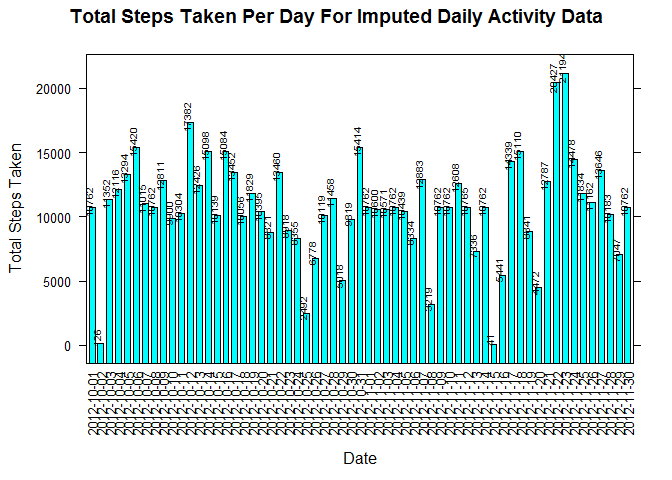
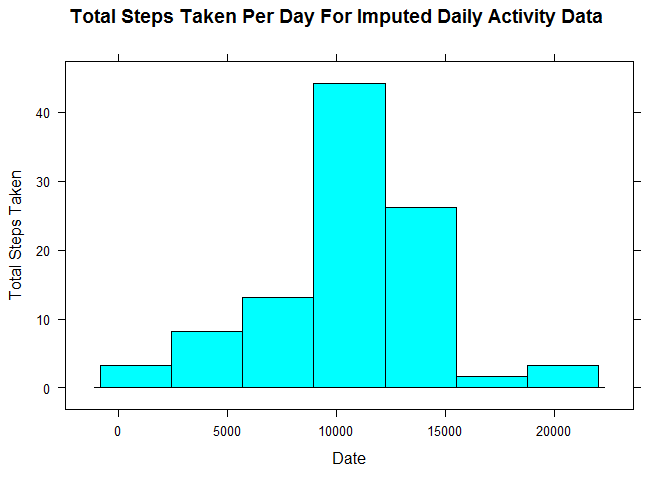
change barchart to histogram

diff --git a/PA1_template.html b/PA1_template.html
@@ -219,12 +219,8 @@ totalDailyActivityData</code></pre>
 <pre class="r"><code>#Lattice bar chart to create a histogram of totals per day
 require(lattice)</code></pre>
 <pre><code>## Loading required package: lattice</code></pre>
-<pre class="r"><code>barchart(totalSteps~date , data = totalDailyActivityData, horiz = FALSE, xlab  = &quot;Date&quot;, ylab = &quot;Total Steps&quot;, main=&quot;Total Steps Per Day&quot;,
-            panel = function(x,y,...){
-                panel.barchart(x, y, ...)
-                panel.text(x, y, label = totalDailyActivityData$totalSteps, pos = 3,cex = 0.6, srt = 90)
-            }, scales=list(x=list(rot=90)))</code></pre>
[1 lines of base64/hex data omitted]
+<pre class="r"><code>histogram(date~totalSteps , data = totalDailyActivityData, horiz = FALSE, xlab  = &quot;Date&quot;, ylab = &quot;Total Steps&quot;, main=&quot;Total Steps Per Day&quot;)</code></pre>
[1 lines of base64/hex data omitted]
 </div>
 </div>
 <div id="what-is-the-average-daily-activity-pattern" class="section level2">
@@ -345,12 +341,8 @@ totalImputedDailyActivityData[,c(&quot;date&quot;,&quot;meanSteps&quot;,&quot;me
 <h3>Histogram of Total Steps per Day for imputed data</h3>
 <pre class="r"><code>#Lattice bar chart to create a histogram of totals per day for impuuted data
 require(lattice)
-barchart(totalSteps~date , data = totalImputedDailyActivityData, horiz = FALSE, xlab  = &quot;Date&quot;, ylab = &quot;Total Steps Taken&quot;, main=&quot;Total Steps Taken Per Day For Imputed Daily Activity Data&quot;,
-            panel = function(x,y,...){
-                panel.barchart(x, y, ...)
-                panel.text(x, y, label = totalImputedDailyActivityData$totalSteps, pos = 3,cex = 0.6, srt = 90)
-            }, scales=list(x=list(rot=90)))</code></pre>
[1 lines of base64/hex data omitted]
+histogram(date~totalSteps , data = totalImputedDailyActivityData, horiz = FALSE, xlab  = &quot;Date&quot;, ylab = &quot;Total Steps Taken&quot;, main=&quot;Total Steps Taken Per Day For Imputed Daily Activity Data&quot;)</code></pre>
[1 lines of base64/hex data omitted]
 </div>
 </div>
 <div id="are-there-differences-in-activity-patterns-between-weekdays-and-weekends" class="section level2">

diff --git a/PA1_template.md b/PA1_template.md
@@ -120,11 +120,7 @@ require(lattice)
 ```
 
 ```r
-barchart(totalSteps~date , data = totalDailyActivityData, horiz = FALSE, xlab  = "Date", ylab = "Total Steps", main="Total Steps Per Day",
-            panel = function(x,y,...){
-                panel.barchart(x, y, ...)
-                panel.text(x, y, label = totalDailyActivityData$totalSteps, pos = 3,cex = 0.6, srt = 90)
-            }, scales=list(x=list(rot=90)))
+histogram(date~totalSteps , data = totalDailyActivityData, horiz = FALSE, xlab  = "Date", ylab = "Total Steps", main="Total Steps Per Day")
 ```
 
 ![](PA1_template_files/figure-html/TotalSteps_Histogram-1.png)<!-- -->
@@ -260,11 +256,7 @@ Mean remains constant for all days while totals and median increase for other da
 ```r
 #Lattice bar chart to create a histogram of totals per day for impuuted data
 require(lattice)
-barchart(totalSteps~date , data = totalImputedDailyActivityData, horiz = FALSE, xlab  = "Date", ylab = "Total Steps Taken", main="Total Steps Taken Per Day For Imputed Daily Activity Data",
-            panel = function(x,y,...){
-                panel.barchart(x, y, ...)
-                panel.text(x, y, label = totalImputedDailyActivityData$totalSteps, pos = 3,cex = 0.6, srt = 90)
-            }, scales=list(x=list(rot=90)))
+histogram(date~totalSteps , data = totalImputedDailyActivityData, horiz = FALSE, xlab  = "Date", ylab = "Total Steps Taken", main="Total Steps Taken Per Day For Imputed Daily Activity Data")
 ```
 
 ![](PA1_template_files/figure-html/ImputedData_TotalSteps_Histogram-1.png)<!-- -->
